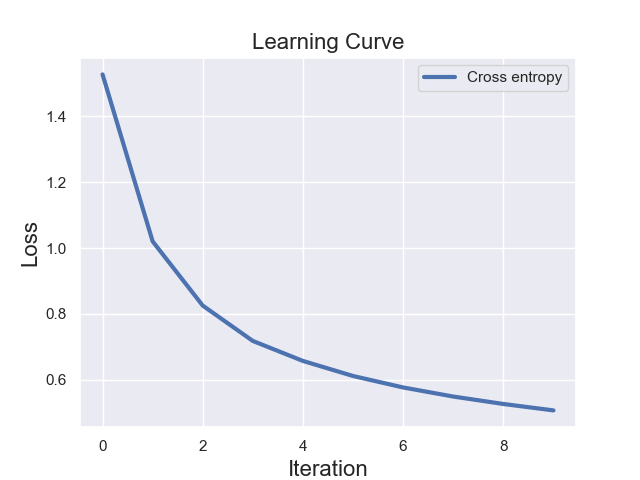
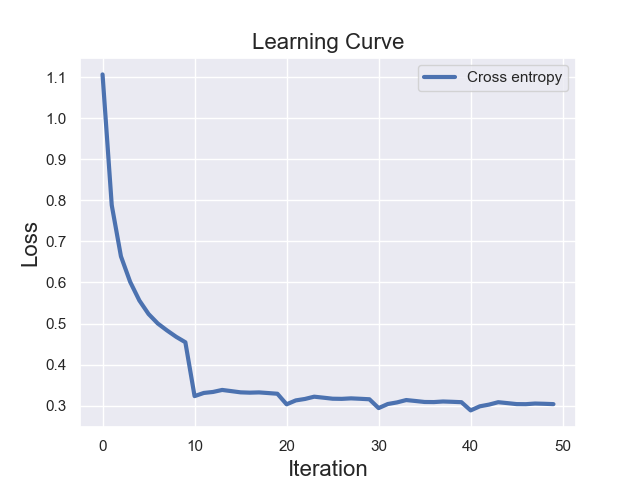
opt project

diff --git a/python/Optimum_Design/project/my_cnn/main.py b/python/Optimum_Design/project/my_cnn/main.py
@@ -15,9 +15,9 @@ if __name__ == '__main__':
             - plot_weights              > 0 --> plot weights distribution
     '''
 
-    num_epochs = 1
+    num_epochs = 5
     batch_size = 8
-    learning_rate = 0.01
+    learning_rate = 0.001
     validate = 1
     verbose = 1
     plot_weights = 1
